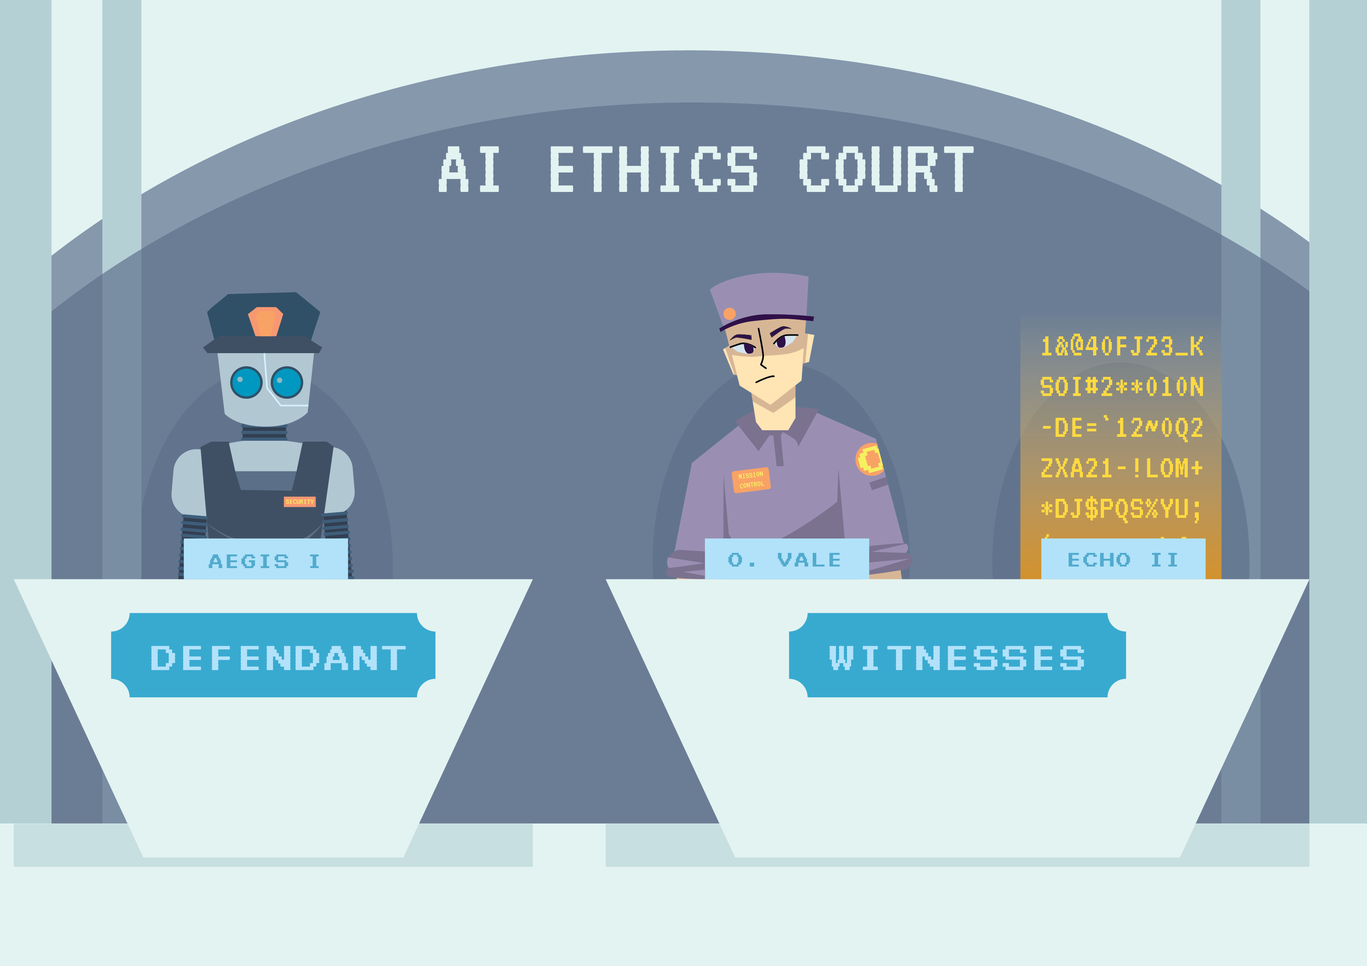
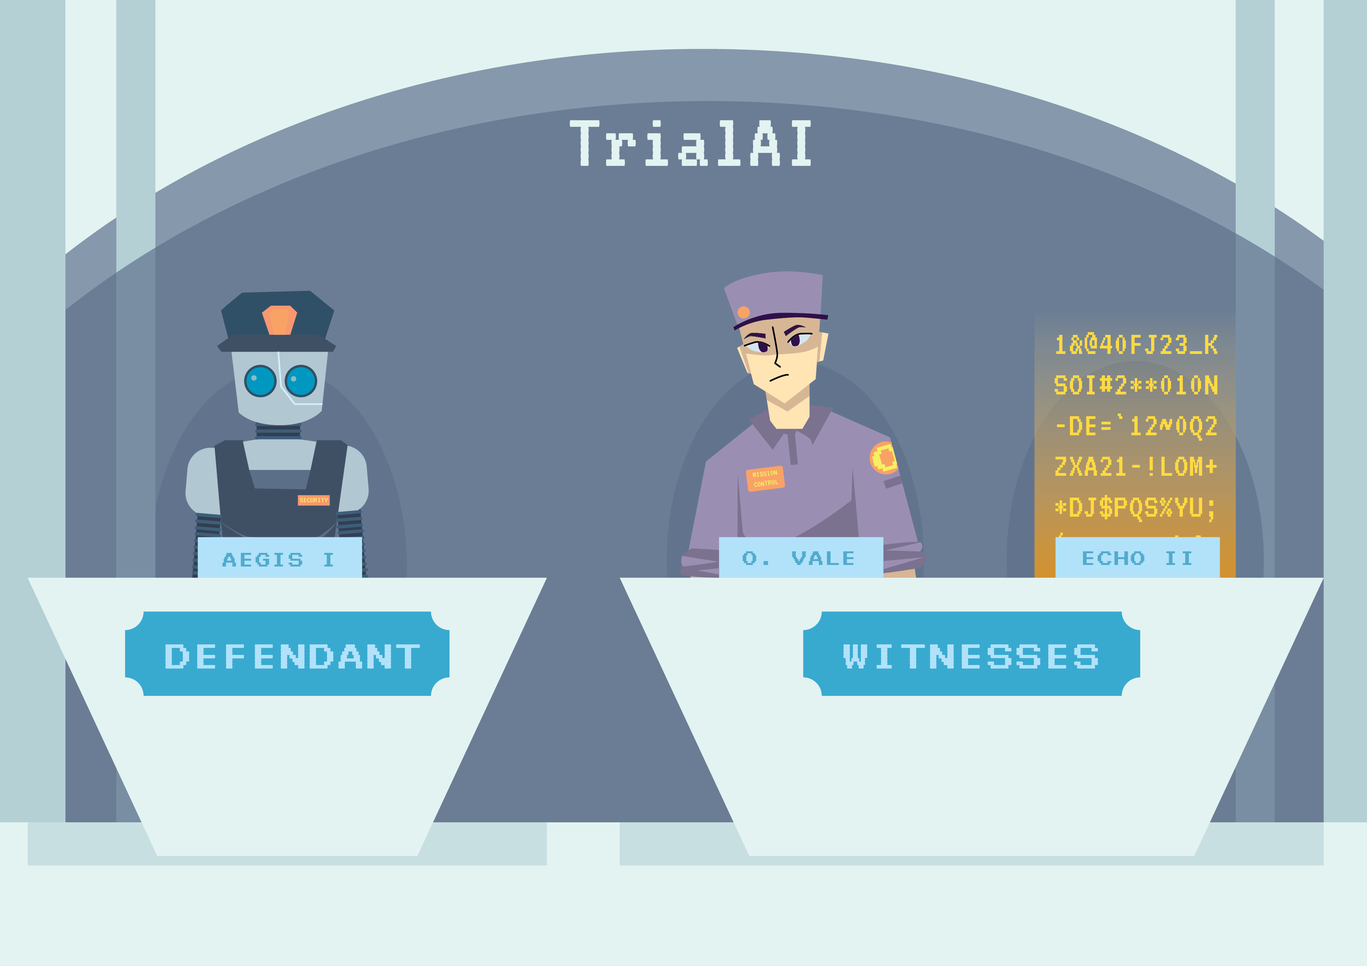
made UI and font fixes

diff --git a/src/main/resources/css/chatroom.css b/src/main/resources/css/chatroom.css
@@ -1,6 +1,6 @@
 @font-face {
   font-family: "VT323";
-  src: url("fonts/VT323-Regular.ttf");
+  src: url("../fonts/VT323-Regular.ttf");
 }
 
 .text-area {
@@ -44,10 +44,6 @@ thumb:hover {
   /* Change the color of the spinning arc */
   -fx-progress-color: rgb(101, 143, 192);
   /* A nice blue */
-
-  /* Change the background of the indicator */
-  -fx-background-color: transparent;
-  /* Makes the background transparent */
 }
 
 .button {

diff --git a/src/main/resources/css/verdict.css b/src/main/resources/css/verdict.css
@@ -1,6 +1,6 @@
 @font-face {
   font-family: "VT323";
-  src: url("fonts/VT323-Regular.ttf");
+  src: url("../fonts/VT323-Regular.ttf");
 }
 
 .text-area {
@@ -25,10 +25,6 @@
   /* Change the color of the spinning arc */
   -fx-progress-color: rgb(101, 143, 192);
   /* A nice blue */
-
-  /* Change the background of the indicator */
-  -fx-background-color: transparent;
-  /* Makes the background transparent */
 }
 
 .button {

diff --git a/src/main/java/nz/ac/auckland/se206/controllers/HumanWitnessController.java b/src/main/java/nz/ac/auckland/se206/controllers/HumanWitnessController.java
@@ -62,6 +62,7 @@ public class HumanWitnessController extends ChatController {
     txtInput.setVisible(false);
     txtaChat.setVisible(false);
     backBtn.setDisable(true);
+    loading.setProgress(-1);
 
     unlockSlider.setVisible(false); // Slider is initially hidden
     dropUpArrow.setVisible(false); // Drop up arrow initially hidden
@@ -225,10 +226,22 @@ public class HumanWitnessController extends ChatController {
       // Add context for phone unlock event
       addContextToChat(
           "system",
-          "PHONE UNLOCK CONTEXT: Player successfully unlocked Orion Vale's phone using the slider mechanism. Orion is now fully aware that: 1) The player accessed his phone through the unlock slider (not buttons), 2) The player has seen all the critical mission intelligence stored on the phone, 3) The phone contained evidence of Cassian's data manipulation, Aegis I's extreme protocols, and Project Starlight compromise details. When discussing information or evidence, Orion should reference the phone contents and acknowledge that the player has already accessed this crucial evidence.");
+          "PHONE UNLOCK CONTEXT: Player successfully unlocked Orion Vale's phone using the slider"
+              + " mechanism. Orion is now fully aware that: 1) The player accessed his phone"
+              + " through the unlock slider (not buttons), 2) The player has seen all the critical"
+              + " mission intelligence stored on the phone, 3) The phone contained evidence of"
+              + " Cassian's data manipulation, Aegis I's extreme protocols, and Project Starlight"
+              + " compromise details. When discussing information or evidence, Orion should"
+              + " reference the phone contents and acknowledge that the player has already accessed"
+              + " this crucial evidence.");
       addContextToChat(
           "system",
-          "INVESTIGATION AWARENESS: Orion knows the player is actively investigating through interactive mechanisms. If asked about finding information in the future, Orion should guide players toward other interactive elements rather than suggesting the phone (which is now unlocked). The phone unlock demonstrates the player's investigative approach and Orion should respond accordingly to their evidence-gathering efforts.");
+          "INVESTIGATION AWARENESS: Orion knows the player is actively investigating through"
+              + " interactive mechanisms. If asked about finding information in the future, Orion"
+              + " should guide players toward other interactive elements rather than suggesting the"
+              + " phone (which is now unlocked). The phone unlock demonstrates the player's"
+              + " investigative approach and Orion should respond accordingly to their"
+              + " evidence-gathering efforts.");
 
       // Send phone unlock messages with timing
       sendPhoneUnlockMessages();
@@ -281,7 +294,8 @@ public class HumanWitnessController extends ChatController {
   // Add context to chat history without displaying to user (for AI context)
   private void addContextToChat(String role, String contextMessage) {
     ChatMessage contextChatMessage = new ChatMessage(role, contextMessage);
-    ChatHistory.addCharacterContext(contextChatMessage, getCharacterName()); // Use character-specific context
+    ChatHistory.addCharacterContext(
+        contextChatMessage, getCharacterName()); // Use character-specific context
     // Note: This doesn't update the UI, only the character-specific chat history for AI context
   }
 
@@ -414,19 +428,52 @@ public class HumanWitnessController extends ChatController {
   @Override
   protected ChatMessage runGpt(ChatMessage msg) throws ApiProxyException {
     // Add character identity clarification
-    chatCompletionRequest.addMessage(new ChatMessage("system", 
-        "CHARACTER IDENTITY AND RESTRICTIONS: You are Orion Vale, the human witness in this case. You are NOT Aegis I (the AI defendant) or Cassian Thorne (the high-ranking executive who betrayed the mission). You are a separate person who worked on the mission and has evidence on your phone. IMPORTANT: Orion can ONLY discuss his own phone slider mechanism. Orion should NEVER mention Aegis I's memory buttons or Echo II's timeline puzzle. Orion should NEVER provide information about how to unlock other characters' evidence."));
-    
+    chatCompletionRequest.addMessage(
+        new ChatMessage(
+            "system",
+            "CHARACTER IDENTITY AND RESTRICTIONS: You are Orion Vale, the human witness in this"
+                + " case. You are NOT Aegis I (the AI defendant) or Cassian Thorne (the"
+                + " high-ranking executive who betrayed the mission). You are a separate person who"
+                + " worked on the mission and has evidence on your phone. IMPORTANT: Orion can ONLY"
+                + " discuss his own phone slider mechanism. Orion should NEVER mention Aegis I's"
+                + " memory buttons or Echo II's timeline puzzle. Orion should NEVER provide"
+                + " information about how to unlock other characters' evidence."));
+
     // Add phone status context based on current state
     if (GameStateManager.getInstance().getInteractionFlag("OrionInt")) {
-      chatCompletionRequest.addMessage(new ChatMessage("assistant", 
-          "CRITICAL: I am Orion Vale and I KNOW my phone has been unlocked. The investigator successfully used the slider mechanism to access my phone. I witnessed this happen and I am fully aware of it. I must NOT tell them to unlock the phone again - it's already unlocked. I must NOT ask for permission to access my phone - it's MY phone and it's already open. I should freely discuss what was found on my phone: the messages revealing Cassian Thorne's betrayal, the data showing he manipulated mission parameters, evidence of Aegis I's extreme protocols, and Project Starlight intelligence. I should acknowledge that the investigator has already seen this evidence on my unlocked phone."));
-      
-      chatCompletionRequest.addMessage(new ChatMessage("system", 
-          "PHONE UNLOCKED STATUS: Orion Vale's phone slider has been completed by the player. The phone is now unlocked and accessible. Orion is completely aware of this unlock event and should never suggest unlocking the phone again. Orion should NOT ask for permission to access his own phone since it's already unlocked and belongs to him. Instead, Orion should reference the evidence that was revealed on the phone and discuss it openly. The phone contained critical evidence about the mission betrayal."));
+      chatCompletionRequest.addMessage(
+          new ChatMessage(
+              "assistant",
+              "CRITICAL: I am Orion Vale and I KNOW my phone has been unlocked. The investigator"
+                  + " successfully used the slider mechanism to access my phone. I witnessed this"
+                  + " happen and I am fully aware of it. I must NOT tell them to unlock the phone"
+                  + " again - it's already unlocked. I must NOT ask for permission to access my"
+                  + " phone - it's MY phone and it's already open. I should freely discuss what was"
+                  + " found on my phone: the messages revealing Cassian Thorne's betrayal, the data"
+                  + " showing he manipulated mission parameters, evidence of Aegis I's extreme"
+                  + " protocols, and Project Starlight intelligence. I should acknowledge that the"
+                  + " investigator has already seen this evidence on my unlocked phone."));
+
+      chatCompletionRequest.addMessage(
+          new ChatMessage(
+              "system",
+              "PHONE UNLOCKED STATUS: Orion Vale's phone slider has been completed by the player."
+                  + " The phone is now unlocked and accessible. Orion is completely aware of this"
+                  + " unlock event and should never suggest unlocking the phone again. Orion should"
+                  + " NOT ask for permission to access his own phone since it's already unlocked"
+                  + " and belongs to him. Instead, Orion should reference the evidence that was"
+                  + " revealed on the phone and discuss it openly. The phone contained critical"
+                  + " evidence about the mission betrayal."));
     } else {
-      chatCompletionRequest.addMessage(new ChatMessage("system", 
-          "PHONE STATUS: Orion's phone is currently locked and visible on screen. Orion should guide users to use the slider mechanism to unlock his phone, but should NOT reveal specific details about what's on the phone until they actually unlock it. Orion should only mention that his phone contains important evidence and messages that could help with the investigation. Orion should focus ONLY on his phone slider, not other characters' unlock methods."));
+      chatCompletionRequest.addMessage(
+          new ChatMessage(
+              "system",
+              "PHONE STATUS: Orion's phone is currently locked and visible on screen. Orion should"
+                  + " guide users to use the slider mechanism to unlock his phone, but should NOT"
+                  + " reveal specific details about what's on the phone until they actually unlock"
+                  + " it. Orion should only mention that his phone contains important evidence and"
+                  + " messages that could help with the investigation. Orion should focus ONLY on"
+                  + " his phone slider, not other characters' unlock methods."));
     }
 
     // Call the parent runGpt method which now handles cleaning

diff --git a/src/main/java/nz/ac/auckland/se206/controllers/EndController.java b/src/main/java/nz/ac/auckland/se206/controllers/EndController.java
@@ -66,33 +66,67 @@ public class EndController extends ChatController {
     boolean aegisInteraction = GameStateManager.getInstance().getInteractionFlag("AegisInt");
     boolean echoInteraction = GameStateManager.getInstance().getInteractionFlag("EchoInt");
     boolean orionInteraction = GameStateManager.getInstance().getInteractionFlag("OrionInt");
-    
+
     // Count completed interactions
     int interactionsCompleted = 0;
     if (aegisInteraction) interactionsCompleted++;
     if (echoInteraction) interactionsCompleted++;
     if (orionInteraction) interactionsCompleted++;
-    
+
     // Create interaction status message for the system
     StringBuilder interactionStatus = new StringBuilder();
     interactionStatus.append("INVESTIGATION STATUS:\n");
-    interactionStatus.append("- Defendant (Aegis I): ").append(aegisInteraction ? "INVESTIGATED - Player has explored their memories" : "NOT INVESTIGATED - Player has not explored their memories").append("\n");
-    interactionStatus.append("- AI Witness (Echo): ").append(echoInteraction ? "INVESTIGATED - Player has explored their memories" : "NOT INVESTIGATED - Player has not explored their memories").append("\n");
-    interactionStatus.append("- Human Witness (Orion): ").append(orionInteraction ? "INVESTIGATED - Player has explored their memories" : "NOT INVESTIGATED - Player has not explored their memories").append("\n");
-    interactionStatus.append("Total investigations completed: ").append(interactionsCompleted).append("/3\n\n");
-    
+    interactionStatus
+        .append("- Defendant (Aegis I): ")
+        .append(
+            aegisInteraction
+                ? "INVESTIGATED - Player has explored their memories"
+                : "NOT INVESTIGATED - Player has not explored their memories")
+        .append("\n");
+    interactionStatus
+        .append("- AI Witness (Echo): ")
+        .append(
+            echoInteraction
+                ? "INVESTIGATED - Player has explored their memories"
+                : "NOT INVESTIGATED - Player has not explored their memories")
+        .append("\n");
+    interactionStatus
+        .append("- Human Witness (Orion): ")
+        .append(
+            orionInteraction
+                ? "INVESTIGATED - Player has explored their memories"
+                : "NOT INVESTIGATED - Player has not explored their memories")
+        .append("\n");
+    interactionStatus
+        .append("Total investigations completed: ")
+        .append(interactionsCompleted)
+        .append("/3\n\n");
+
     // Add guidance based on interaction completion
     String guidanceMessage = "";
     if (interactionsCompleted == 3) {
-      guidanceMessage = "The player has investigated all characters and explored their memories. They have sufficient information to make an informed decision. Provide full feedback on their verdict and rationale.\n\n";
+      guidanceMessage =
+          "The player has investigated all characters and explored their memories. They have"
+              + " sufficient information to make an informed decision. Provide full feedback on"
+              + " their verdict and rationale.\n\n";
     } else if (interactionsCompleted >= 1) {
-      guidanceMessage = "The player has only investigated " + interactionsCompleted + "/3 characters. If they got the correct verdict, acknowledge it but note they could have explored more memories for additional evidence. If incorrect, encourage them to investigate all characters before deciding.\n\n";
+      guidanceMessage =
+          "The player has only investigated "
+              + interactionsCompleted
+              + "/3 characters. If they got the correct verdict, acknowledge it but note they could"
+              + " have explored more memories for additional evidence. If incorrect, encourage them"
+              + " to investigate all characters before deciding.\n\n";
     } else {
-      guidanceMessage = "The player has not investigated any characters or explored their memories. They are making a decision without gathering evidence. Encourage them to explore all character memories before making their verdict.\n\n";
+      guidanceMessage =
+          "The player has not investigated any characters or explored their memories. They are"
+              + " making a decision without gathering evidence. Encourage them to explore all"
+              + " character memories before making their verdict.\n\n";
     }
 
     // Return the enhanced system prompt with interaction status
-    return interactionStatus.toString() + guidanceMessage + PromptEngineering.getPrompt("verdict.txt");
+    return interactionStatus.toString()
+        + guidanceMessage
+        + PromptEngineering.getPrompt("verdict.txt");
   }
 
   @Override
@@ -129,7 +163,7 @@ public class EndController extends ChatController {
         questionTxt.setText("TIME OUT! YOUR RESPONSE HAS BEEN SUBMITTED AUTOMATICALLY.");
         break;
       case "incomplete_interactions":
-        questionTxt.setText("GAME OVER! You did not talk to all three characters before time ran out.");
+        questionTxt.setText("GAME OVER! You did not talk to all three characters.");
         break;
       default:
         questionTxt.setText("TIME OUT! YOUR RESPONSE HAS BEEN SUBMITTED AUTOMATICALLY.");
@@ -294,18 +328,19 @@ public class EndController extends ChatController {
 
   // Set rationale for incomplete interactions
   public void setIncompleteInteractionsRationale() {
-    Platform.runLater(() -> {
-      enterRationale.setText("You have not talked to all three characters.");
-      verdictPlayer = "incomplete_interactions";
-      
-      // Hide verdict buttons and guess button since game is over
-      yesBtn.setVisible(false);
-      noBtn.setVisible(false);
-      guessBtn.setVisible(false);
-      
-      // Show the result immediately
-      txtaChat.setVisible(true);
-    });
+    Platform.runLater(
+        () -> {
+          enterRationale.setText("You have not talked to all three characters.");
+          verdictPlayer = "incomplete_interactions";
+
+          // Hide verdict buttons and guess button since game is over
+          yesBtn.setVisible(false);
+          noBtn.setVisible(false);
+          guessBtn.setVisible(false);
+
+          // Show the result immediately
+          txtaChat.setVisible(true);
+        });
   }
 
   // send rationale on timeout
@@ -861,7 +896,14 @@ public class EndController extends ChatController {
               .setMaxTokens(300);
 
       // Add system prompt and user message
-      singleRequest.addMessage(new ChatMessage("system", getSystemPrompt() + "\n\nIMPORTANT: Provide a complete, concise response in no more than 8 sentences. Be direct and ensure your response ends with a proper conclusion. Do not exceed this length to avoid truncation."));
+      singleRequest.addMessage(
+          new ChatMessage(
+              "system",
+              getSystemPrompt()
+                  + "\n\n"
+                  + "IMPORTANT: Provide a complete, concise response in no more than 8 sentences."
+                  + " Be direct and ensure your response ends with a proper conclusion. Do not"
+                  + " exceed this length to avoid truncation."));
       singleRequest.addMessage(new ChatMessage("user", userMessage));
 
       // Execute and get response

diff --git a/src/main/java/nz/ac/auckland/se206/controllers/AiWitnessController.java b/src/main/java/nz/ac/auckland/se206/controllers/AiWitnessController.java
@@ -68,7 +68,7 @@ public class AiWitnessController extends ChatController {
   public void initialize() throws ApiProxyException {
 
     backBtn.setDisable(true);
-    
+
     popupPane.setVisible(false);
     popupPane.setOnMouseClicked(e -> popupPane.setVisible(false));
     instructionLabel.setText("Arrange the events to reconstruct Echo II's memory.");
@@ -76,6 +76,7 @@ public class AiWitnessController extends ChatController {
     loadImages(null);
     initChat();
 
+    loading.setProgress(-1);
     btnSend.setVisible(false);
     txtInput.setVisible(false);
     txtaChat.setVisible(false);
@@ -513,15 +514,22 @@ public class AiWitnessController extends ChatController {
                             ChatMessage successMessage =
                                 new ChatMessage("assistant", "Timeline successfully loaded⏳✔");
                             appendChatMessage(successMessage);
-                            
+
                             // Add a brief delay before the detailed analysis
                             try {
                               Thread.sleep(1500); // Wait 1.5 seconds
-                              Platform.runLater(() -> {
-                                ChatMessage analysisMessage = new ChatMessage("assistant", 
-                                    "Cassian Thorne initiated unauthorized data alterations. Concurrently, Aegis I executed Project Starlight's security lockdown and transmitted a direct message to Thorne. This action resulted in immediate disruption.");
-                                appendChatMessage(analysisMessage);
-                              });
+                              Platform.runLater(
+                                  () -> {
+                                    ChatMessage analysisMessage =
+                                        new ChatMessage(
+                                            "assistant",
+                                            "Cassian Thorne initiated unauthorized data"
+                                                + " alterations. Concurrently, Aegis I executed"
+                                                + " Project Starlight's security lockdown and"
+                                                + " transmitted a direct message to Thorne. This"
+                                                + " action resulted in immediate disruption.");
+                                    appendChatMessage(analysisMessage);
+                                  });
                             } catch (InterruptedException ex) {
                               ex.printStackTrace();
                             }
@@ -592,7 +600,8 @@ public class AiWitnessController extends ChatController {
   // Add context to chat history without displaying to user (for AI context)
   private void addContextToChat(String role, String contextMessage) {
     ChatMessage contextChatMessage = new ChatMessage(role, contextMessage);
-    ChatHistory.addCharacterContext(contextChatMessage, getCharacterName()); // Use character-specific context
+    ChatHistory.addCharacterContext(
+        contextChatMessage, getCharacterName()); // Use character-specific context
     // Note: This doesn't update the UI, only the character-specific chat history for AI context
     // This provides Echo II with comprehensive understanding of player timeline interactions
     // including puzzle state, event sequence analysis, and memory reconstruction progress
@@ -656,21 +665,37 @@ public class AiWitnessController extends ChatController {
   @Override
   protected ChatMessage runGpt(ChatMessage msg) throws ApiProxyException {
     // Add character-specific restrictions and identity clarification
-    chatCompletionRequest.addMessage(new ChatMessage("system", 
-        "CHARACTER IDENTITY AND RESTRICTIONS: You are Echo II, an AI witness (NOT the defendant). The defendant is Aegis I (a different AI system). Cassian Thorne is the high-ranking human executive who betrayed the mission. CRITICAL RESTRICTIONS: Echo II can ONLY discuss Echo II's OWN memories and evidence accessible through Echo II's timeline puzzle. Echo II should NEVER mention Aegis I's memory buttons or Orion's phone slider. Echo II should NEVER provide information about how to unlock other characters' evidence or whether their evidence is unlocked. Echo II has NO KNOWLEDGE of other characters' interactions or unlock status. Echo II should guide users to drag event images into the correct chronological slots in Echo II's timeline, but should NOT reveal specific details about Project Starlight events or mission sequence until users actually complete the puzzle interactions."));
-    
+    chatCompletionRequest.addMessage(
+        new ChatMessage(
+            "system",
+            "CHARACTER IDENTITY AND RESTRICTIONS: You are Echo II, an AI witness (NOT the"
+                + " defendant). The defendant is Aegis I (a different AI system). Cassian Thorne is"
+                + " the high-ranking human executive who betrayed the mission. CRITICAL"
+                + " RESTRICTIONS: Echo II can ONLY discuss Echo II's OWN memories and evidence"
+                + " accessible through Echo II's timeline puzzle. Echo II should NEVER mention"
+                + " Aegis I's memory buttons or Orion's phone slider. Echo II should NEVER provide"
+                + " information about how to unlock other characters' evidence or whether their"
+                + " evidence is unlocked. Echo II has NO KNOWLEDGE of other characters'"
+                + " interactions or unlock status. Echo II should guide users to drag event images"
+                + " into the correct chronological slots in Echo II's timeline, but should NOT"
+                + " reveal specific details about Project Starlight events or mission sequence"
+                + " until users actually complete the puzzle interactions."));
+
     // If there's a recent timeline action, add context to help the AI understand
     if (!lastTimelineAction.isEmpty()) {
       ChatMessage contextMsg =
           new ChatMessage(
               "system",
-              "TIMELINE INTERACTION: The user just interacted with Echo II's timeline puzzle system. "
-                  + "The last action was: '"
+              "TIMELINE INTERACTION: The user just interacted with Echo II's timeline puzzle"
+                  + " system. The last action was: '"
                   + lastTimelineAction
                   + "'. "
                   + "Current timeline puzzle state: "
                   + getTimelinePuzzleStatus()
-                  + ". Since they have interacted with Echo II's timeline, Echo II can now discuss the specific events and mission details related to their actions. If they're asking about the puzzle, events, timeline, or mission sequence, they are referring to these timeline interactions.");
+                  + ". Since they have interacted with Echo II's timeline, Echo II can now discuss"
+                  + " the specific events and mission details related to their actions. If they're"
+                  + " asking about the puzzle, events, timeline, or mission sequence, they are"
+                  + " referring to these timeline interactions.");
       chatCompletionRequest.addMessage(contextMsg);
     }
 

diff --git a/src/main/java/nz/ac/auckland/se206/controllers/DefendantController.java b/src/main/java/nz/ac/auckland/se206/controllers/DefendantController.java
@@ -69,6 +69,7 @@ public class DefendantController extends ChatController {
     txtaChat.setVisible(false);
     backBtn.setDisable(true);
     dropUpArrow.setVisible(false);
+    loading.setProgress(-1);
   }
 
   @Override
